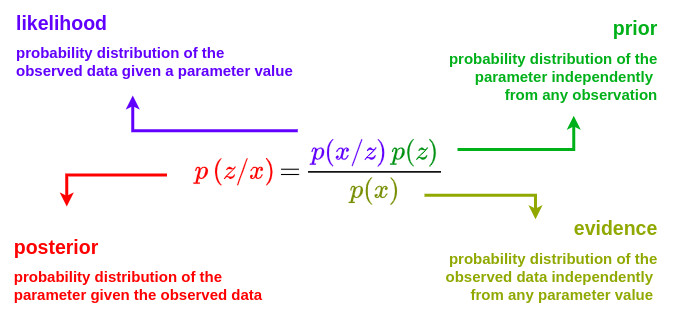
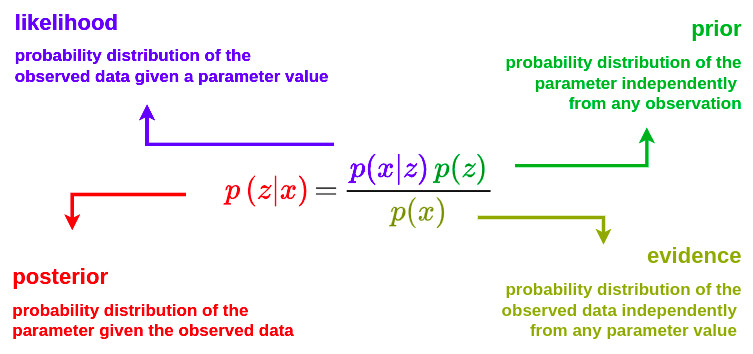
Fix probability notation in VAE tutorial (#68)
* Fix probability notation in VAE tutorial

* changes figures to integrate \vert symbol in the equations

* replace projection by mapping as suggested by nicolas and better explain the use of a gaussian distrib for the modeling of p(x|z)

diff --git a/collections/_tutorials/2022-09-12-tutorial-vae.md b/collections/_tutorials/2022-09-12-tutorial-vae.md
@@ -40,19 +40,19 @@ Let's start with the basic representation of an autoencoder
 
 Autoencoders belong to the family of dimension reduction methods. This method takes as input a vector $$\mathbf{x} \in \mathbb{R}^N$$ and outputs a closed vector $$\mathbf{\hat{x}} \in \mathbb{R}^N$$ with the restriction of passing through a space with reduced dimensionality $$Z \in \mathbb{R}^M$$. This is usually achieved through the minimization of the $$L_2$$ norm function: $$\lVert \mathbf{x} - \mathbf{\hat{x}} \rVert^2$$.
 
-$$\mathbf{e}$$ and $$\mathbf{d}$$ are two different networks that model the (non linear) projections from the input space $$X$$ to the latent space $$Z$$ in both directions. 
+$$\mathbf{e}$$ and $$\mathbf{d}$$ are two different networks that model the (non linear) mappings from the input space $$X$$ to the latent space $$Z$$ in both directions. 
 
 Let us now consider the simple case where $$\mathbf{e}$$ and $$\mathbf{d}$$ correspond to two single-layer networks without any non-linearity. The corresponding autoencoder can be represented as follows:
 
 ![](/collections/images/vae/simplified_autoencoder.jpg)
 
-where $$\mathbf{e} \in \mathbb{R}^{N \times M}$$ and $$\mathbf{d} \in \mathbb{R}^{M \times N}$$ are two linear projection matrices. In the particular case where $$\mathbf{e} = \mathbf{U}^T$$ and $$\mathbf{d} = \mathbf{U}$$, the autoencoder expressions can be written as:
+where $$\mathbf{e} \in \mathbb{R}^{N \times M}$$ and $$\mathbf{d} \in \mathbb{R}^{M \times N}$$ are two linear matrices. In the particular case where $$\mathbf{e} = \mathbf{U}^T$$ and $$\mathbf{d} = \mathbf{U}$$, the autoencoder expressions can be written as:
 
 $$\mathbf{z} = \mathbf{U}^T\mathbf{x} \quad\quad \text{and} \quad\quad \mathbf{\hat{x}} = \mathbf{U}\mathbf{z}=\mathbf{U}\mathbf{U}^T\mathbf{x}$$
 
 This corresponds to the well know PCA (Principal Component Analysis) paradigm. A more formal proof can be found [in this article](https://arxiv.org/pdf/1804.10253.pdf).
 
->Autoencoders can thus be seen as a generalization of the dimensionality reduction PCA formalism by evolving more complex projection operations defined through $$\mathbf{e}$$ and $$\mathbf{d}$$ networks.
+>Autoencoders can thus be seen as a generalization of the dimensionality reduction PCA formalism by evolving more complex operations defined through $$\mathbf{e}$$ and $$\mathbf{d}$$ networks.
 
 &nbsp;
 
@@ -104,9 +104,9 @@ Using the previous reasoning, the overall architecture of the VAE can be represe
 &nbsp;
 
 VAE thus offers two extremely interesting opportunities:
-* the mastery of the encoder allows to optimize the projection operation $$p(z/x)$$ to a latent space with reduced dimensionality for interpretation purposes. This corresponds to ***manifold learning paradigm***.
+* the mastery of the encoder allows to optimize the mapping operation $$p(z \vert x)$$ to a latent space with reduced dimensionality for interpretation purposes. This corresponds to ***manifold learning paradigm***.
 
-* the mastery of the decoder allows to optimize the projection operation $$p(x/z)$$ for the generation of data with a complex distribution. This corresponds to ***generative model framework***.
+* the mastery of the decoder allows to optimize the mapping operation $$p(x \vert z)$$ for the generation of data with a complex distribution. This corresponds to ***generative model framework***.
 
 &nbsp;
 
@@ -200,13 +200,13 @@ Let’s assume a model where data $$x$$ are generated from a probability distrib
 
 ### Key concept
 
-In the VAE formalism, we first make the assumption that $$p(z)$$ is a standard Gaussian distribution (to ensure completeness) and that $$p(x/z)$$ is a Gaussian distribution whose mean is defined by a deterministic function $$f$$ of the variable $$z$$ and whose covariance matrix has the form of a positive constant $$c$$ that multiplies the identity matrix $$I$$. We will see that this last assumption allows to keep most of the information of the data structure in the reduced representations.
+In the VAE formalism, we first make the assumption that $$p(z)$$ is a standard Gaussian distribution (to ensure completeness) and that $$p(x \vert z)$$ is a Gaussian distribution whose mean is defined by a deterministic function $$f$$ of the variable $$z$$ and whose covariance matrix has the form of a positive constant $$c$$ that multiplies the identity matrix $$I$$. We will see that this last assumption allows to keep most of the information of the data structure in the reduced representations.
 
 $$p(z) = \mathcal{N}(0,I)$$
 
-$$p(x/z) = \mathcal{N}(f(z),cI)$$
+$$p(x \vert z) = \mathcal{N}(f(z),cI)$$
 
-The key concept around VAE is that we will try to optimize the computation of the non-linear projection $$p(z/x)$$. Indeed, it can be demonstrated that the computation of $$p(z/x)$$ is often complicated and requires the use of approximation techniques such as ***variational inference***.
+The key concept around VAE is that we will try to optimize the computation of the non-linear mapping $$p(z \vert x)$$. Indeed, it can be demonstrated that the computation of $$p(z \vert x)$$ is often complicated and requires the use of approximation techniques such as ***variational inference***.
 
 &nbsp;
 
@@ -214,32 +214,32 @@ The key concept around VAE is that we will try to optimize the computation of th
 
 &nbsp;
 
-In the VAE formalism, $$p(z/x)$$ is approximated by a Gaussian distribution $$q_x(z)$$ whose mean $$\mu_x$$ and covariance $$\sigma_x$$ are defined by two functions $$g(x)$$ and $$h(x)$$. 
+In the VAE formalism, $$p(z \vert x)$$ is approximated by a Gaussian distribution $$q_x(z)$$ whose mean $$\mu_x$$ and covariance $$\sigma_x$$ are defined by two functions $$g(x)$$ and $$h(x)$$. 
 
 $$q_x(z) = \mathcal{N}\left(g(x),h(x)\right)$$
 
 
-We thus have a family of candidates for variational inference and need to find the best approximation among this family by minimising the KL divergence between the approximation $$q_x(z)$$ and the target $$p(z/x)$$. In other words, we are looking for the optimal $$g^*$$ and $$h^*$$ such that:
+We thus have a family of candidates for variational inference and need to find the best approximation among this family by minimising the KL divergence between the approximation $$q_x(z)$$ and the target $$p(z \vert x)$$. In other words, we are looking for the optimal $$g^*$$ and $$h^*$$ such that:
 
-$$\left(g^*,h^*\right) = \underset{(g,h)}{\arg\min} \,\,\, D_{KL}\left(q_x(z) \parallel p(z/x) \right)$$
+$$\left(g^*,h^*\right) = \underset{(g,h)}{\arg\min} \,\,\, D_{KL}\left(q_x(z) \parallel p(z \vert x) \right)$$
 
 Let's now reformulate the KL divergence expression.
 
-$$D_{KL}\left(q_x(z) \parallel p(z/x) \right) = - \int{q_x(z) \cdot log\left(\frac{p(z/x)}{q_x(z)}\right) \,dz}$$
+$$D_{KL}\left(q_x(z) \parallel p(z \vert x) \right) = - \int{q_x(z) \cdot log\left(\frac{p(z \vert x)}{q_x(z)}\right) \,dz}$$
 
 By using the ***conditional probability*** relation:
 
-$$p(z/x) = \frac{p(x,z)}{p(x)}$$
+$$p(z \vert x) = \frac{p(x,z)}{p(x)}$$
 
 where $$p(x,z)$$ is the joint distribution of event $$x$$ and $$z$$, the above expression can be rewritten as:
 
-$$D_{KL}\left(q_x(z) \parallel p(z/x) \right) = - \int{q_x(z) \cdot log\left(\frac{p(x,z)}{p(x) \cdot q_x(z)}\right) \,dz}$$
+$$D_{KL}\left(q_x(z) \parallel p(z \vert x) \right) = - \int{q_x(z) \cdot log\left(\frac{p(x,z)}{p(x) \cdot q_x(z)}\right) \,dz}$$
 
-$$D_{KL}\left(q_x(z) \parallel p(z/x) \right) = - \int{q_x(z) \cdot \left[ log\left(\frac{p(x,z)}{q_x(z)}\right) + log\left(\frac{1}{p(x)}\right) \right] \,dz}$$
+$$D_{KL}\left(q_x(z) \parallel p(z \vert x) \right) = - \int{q_x(z) \cdot \left[ log\left(\frac{p(x,z)}{q_x(z)}\right) + log\left(\frac{1}{p(x)}\right) \right] \,dz}$$
 
-$$D_{KL}\left(q_x(z) \parallel p(z/x) \right) = - \int{q_x(z) \cdot log\left(\frac{p(x,z)}{q_x(z)}\right) \,dz} \,+\, log\left(p(x)\right) \cdot \underbrace{\int{q_x(z)\,dz}}_{=1}$$
+$$D_{KL}\left(q_x(z) \parallel p(z \vert x) \right) = - \int{q_x(z) \cdot log\left(\frac{p(x,z)}{q_x(z)}\right) \,dz} \,+\, log\left(p(x)\right) \cdot \underbrace{\int{q_x(z)\,dz}}_{=1}$$
 
-$$D_{KL}\left(q_x(z) \parallel p(z/x) \right) \,+\, \mathcal{L} \,=\, log\left(p(x)\right)$$
+$$D_{KL}\left(q_x(z) \parallel p(z \vert x) \right) \,+\, \mathcal{L} \,=\, log\left(p(x)\right)$$
 
 where $$\mathcal{L}$$ is defined as the ***Evidence Lower BOund (ELBO)*** whose expression is given by:
 
@@ -251,27 +251,27 @@ $$\mathcal{L} = \int{q_x(z) \cdot log\left(\frac{p(x,z)}{q_x(z)}\right) \,dz}$$
 
 Let's take a closer look at the previous derived equation:
 
-$$D_{KL}\left(q_x(z) \parallel p(z/x) \right) \,+\, \mathcal{L} \,=\, log\left(p(x)\right)$$
+$$D_{KL}\left(q_x(z) \parallel p(z \vert x) \right) \,+\, \mathcal{L} \,=\, log\left(p(x)\right)$$
 
 The following observations can be made:
 * since $$0\leq p(x) \leq 1$$, $$log\left(p(x)\right) \leq 0$$
 
 * since $$x$$ is the observation, $$log\left(p(x)\right)$$ is a fixed value
 
-* by definition $$D_{KL}\left(q_x(z) \parallel p(z/x) \right) \geq 0$$
+* by definition $$D_{KL}\left(q_x(z) \parallel p(z \vert x) \right) \geq 0$$
 
 * since $$\mathcal{L} = -D_{KL}\left(q_x(z) \parallel p(x,z)\right)$$, $$\mathcal{L} \leq 0$$
 
 
 The previous expression can thus be rewritten as follows:
 
-$$\underbrace{D_{KL}\left(q_x(z) \parallel p(z/x) \right)}_{\geq 0} \,+\, \underbrace{\mathcal{L}}_{\leq 0} \,=\, \underbrace{log\left(p(x)\right)}_{\leq 0 \,\, \text{and fixed}}$$
+$$\underbrace{D_{KL}\left(q_x(z) \parallel p(z \vert x) \right)}_{\geq 0} \,+\, \underbrace{\mathcal{L}}_{\leq 0} \,=\, \underbrace{log\left(p(x)\right)}_{\leq 0 \,\, \text{and fixed}}$$
 
->At this point, it is important to remember that $$p(z/x)$$ is the unknown and that the goal is to find the best $$q_x(z)$$, i.e. the one that shall minimize $$D_{KL}\left(q_x(z) \parallel p(z/x) \right)$$.
+>At this point, it is important to remember that $$p(z \vert x)$$ is the unknown and that the goal is to find the best $$q_x(z)$$, i.e. the one that shall minimize $$D_{KL}\left(q_x(z) \parallel p(z \vert x) \right)$$.
 
 &nbsp;
 
-With the above observations, the following strategy can be implemented: by tweaking $$q_x(z)$$, we can seek to maximize the ELBO $$\mathcal{L}$$, which will imply the minimization of the KL divergence $$D_{KL}\left(q_x(z) \parallel p(z/x) \right)$$, and thus to find a distribution $$q_x(z)$$ that is close to $$p(z/x)$$. The table below provides an illustration of such a strategy. 
+With the above observations, the following strategy can be implemented: by tweaking $$q_x(z)$$, we can seek to maximize the ELBO $$\mathcal{L}$$, which will imply the minimization of the KL divergence $$D_{KL}\left(q_x(z) \parallel p(z \vert x) \right)$$, and thus to find a distribution $$q_x(z)$$ that is close to $$p(z \vert x)$$. The table below provides an illustration of such a strategy. 
 
 <style>
 table th:first-of-type {
@@ -303,35 +303,38 @@ $$\mathcal{L} = \int{q_x(z) \cdot log\left(\frac{p(x,z)}{q_x(z)}\right) \,dz}$$
 
 By using the conditional probability relation:
 
-$$p(x/z) = \frac{p(x,z)}{p(z)}$$
+$$p(x \vert z) = \frac{p(x,z)}{p(z)}$$
 
 the above expression can be rewritten as:
 
-$$\mathcal{L} = \int{q_x(z) \cdot log\left(\frac{p(x/z)\cdot p(z)}{q_x(z)}\right) \,dz}$$
+$$\mathcal{L} = \int{q_x(z) \cdot log\left(\frac{p(x \vert z)\cdot p(z)}{q_x(z)}\right) \,dz}$$
 
-$$\mathcal{L} = \int{q_x(z) \cdot \left[ log\left(p(x/z)\right) + log\left(\frac{p(z)}{q_x(z)}\right) \right] \,dz}$$
+$$\mathcal{L} = \int{q_x(z) \cdot \left[ log\left(p(x \vert z)\right) + log\left(\frac{p(z)}{q_x(z)}\right) \right] \,dz}$$
 
-$$\mathcal{L} = \int{q_x(z) \cdot log\left(p(x/z)\right) \,dz} + \int{q_x(z) \cdot log\left(\frac{p(z)}{q_x(z)}\right) \,dz}$$
+$$\mathcal{L} = \int{q_x(z) \cdot log\left(p(x \vert z)\right) \,dz} + \int{q_x(z) \cdot log\left(\frac{p(z)}{q_x(z)}\right) \,dz}$$
 
-$$\mathcal{L} =  \mathbb{E}_{z\sim q_x} \left[log\left(p(x/z)\right)\right] - D_{KL}\left(q_x(z)\parallel p(z)\right)$$
-
-&nbsp;
-
-Recalling that $$p(x/z)$$ is approximated by a Gaussian distribution $$\mathcal{N}\left(f(z),cI\right)$$, we finally have
-
-$$\mathcal{L} \propto \mathbb{E}_{z\sim q_x} \left[\|x-f(z)\|^2\right] - D_{KL}\left(q_x(z)\parallel p(z)\right)$$
-
-&nbsp;
+$$\mathcal{L} =  \mathbb{E}_{z\sim q_x} \left[log\left(p(x \vert z)\right)\right] - D_{KL}\left(q_x(z)\parallel p(z)\right)$$
 
 where $$\mathbb{E}_{z\sim q_x}$$ is the mathematical expectation with respect to $$q_x(z)$$. 
 
+&nbsp;
+
+At this stage of analysis, it is important to remember that $$p(x \vert z)$$ is modeled by a neural network $$f\left( \cdot \right)$$ so that $$\hat{x}=f(z)$$. Since this function is deterministic, it will allow to model $$p\left(x \vert \hat{x}\right)$$. By approximating $$p\left(x \vert \hat{x}\right)$$ by a Gaussian distribution with a fixed covariance matrix $$cI$$, we have
+
+$$\mathcal{L} \propto \mathbb{E}_{z\sim q_x} \left[-\alpha\|x-f(z)\|^2\right] - D_{KL}\left(q_x(z)\parallel p(z)\right)$$
+
+where $$\alpha$$ comes from the constant covariance information. 
+
+&nbsp;
+
+
 We are finally looking for:
 
-$$\left(f^*,g^*,h^*\right) = \underset{(f,g,h)}{\arg\max} \,\,\, \left( \mathbb{E}_{z\sim q_x} \left[-\|x-f(z)\|^2\right] - D_{KL}\left(q_x(z)\parallel p(z)\right) \right)$$
+$$\left(f^*,g^*,h^*\right) = \underset{(f,g,h)}{\arg\max} \,\,\, \left( \mathbb{E}_{z\sim q_x} \left[-\alpha\|x-f(z)\|^2\right] - D_{KL}\left(q_x(z)\parallel p(z)\right) \right)$$
 
 or 
 
-$$\left(f^*,g^*,h^*\right) = \underset{(f,g,h)}{\arg\min} \,\,\, \left( \mathbb{E}_{z\sim q_x} \left[\|x-f(z)\|^2\right] + D_{KL}\left(q_x(z)\parallel p(z)\right) \right)$$
+$$\left(f^*,g^*,h^*\right) = \underset{(f,g,h)}{\arg\min} \,\,\, \left( \mathbb{E}_{z\sim q_x} \left[\alpha\|x-f(z)\|^2\right] + D_{KL}\left(q_x(z)\parallel p(z)\right) \right)$$
 
 &nbsp;
 
@@ -339,15 +342,15 @@ $$\left(f^*,g^*,h^*\right) = \underset{(f,g,h)}{\arg\min} \,\,\, \left( \mathbb{
 
 Here is a summary of what have been done so far.
 
-1. We want to estimate a non-linear projection $$p(z/x)$$ to go from an input space to a space of reduced dimension, and this through a probabilistic framework.
+1. We want to estimate a non-linear mapping $$p(z \vert x)$$ to go from an input space to a space of reduced dimension, and this through a probabilistic framework.
 
-2. To do this, we introduced a third party parametric distribution $$q_x(z)$$ to estimate the target distribution $$p(z/x)$$.
+2. To do this, we introduced a third party parametric distribution $$q_x(z)$$ to estimate the target distribution $$p(z \vert x)$$.
 
 3. We used the KL divergence metric which measures the proximity between the two distributions, the objective being to minimize this metric.
 
 4. The minimization of the KL divergence leads to the minimization of the following equation:
 
-$$\left(f^*,g^*,h^*\right) = \underset{(f,g,h)}{\arg\min} \,\,\, \left( \mathbb{E}_{z\sim q_x} \left[\|x-f(z)\|^2\right] + D_{KL}\left(q_x(z)\parallel p(z)\right) \right)$$
+$$\left(f^*,g^*,h^*\right) = \underset{(f,g,h)}{\arg\min} \,\,\, \left( \mathbb{E}_{z\sim q_x} \left[\alpha\|x-f(z)\|^2\right] + D_{KL}\left(q_x(z)\parallel p(z)\right) \right)$$
 
 
 &nbsp;
@@ -362,21 +365,21 @@ The minimization of the above equation can be handled by the following graph.
 
 **Let's work on the decoder** 
 
-The decoder will be in charge of the optimization of $$p(x/z)$$, i.e. the first part of the above equation. This is done through a neural network that will optimize the $$f$$ function through the minimization of the following loss function:
+The decoder will be in charge of the optimization of $$p(x \vert z)$$, i.e. the first part of the above equation. This is done through a neural network that will optimize the $$f$$ function through the minimization of the following loss function:
 
-$$\mathcal{L}_{decoder} = \|x-\hat{x}\|^2 \,=\, \|x-\underbrace{f(z)}_{\text{decoder}}\|^2$$
+$$\mathcal{L}_{decoder} = \alpha\|x-\hat{x}\|^2 \,=\, \alpha\|x-\underbrace{f(z)}_{\text{decoder}}\|^2$$
 
 where $$f(z)$$ is the ouput of the decoder. This correponds to the classical $$L_2$$ loss function!
 
 &nbsp;
 
->If we make the assumption that $$\,p(x/z)$$ follows a Bernouilli distribution, then we can demonstrate that the maximization of $$\,\mathbb{E}_{z\sim q_x} \left[log\left(p(x/z)\right)\right]$$ leads to the minimization of the cross entropy function!
+>If we make the assumption that $$\,p(x \vert z)$$ follows a Bernouilli distribution, then we can demonstrate that the maximization of $$\,\mathbb{E}_{z\sim q_x} \left[log\left(p(x \vert z)\right)\right]$$ leads to the minimization of the cross entropy function!
 
 &nbsp;
 
 **Let's work on the encoder** 
 
-The encoder will be in charge of the optimization of $$p(z/x)$$, i.e. the second part of the above equation. This is done through a neural network that will optimize $$g$$ and $$h$$ functions through the minimization of the following loss function:
+The encoder will be in charge of the optimization of $$p(z \vert x)$$, i.e. the second part of the above equation. This is done through a neural network that will optimize $$g$$ and $$h$$ functions through the minimization of the following loss function:
 
 $$\mathcal{L}_{encoder} = D_{KL}(\underbrace{q_x(z)}_{encoder} \parallel \mathcal{N}(0,I))$$
 
@@ -394,7 +397,7 @@ The graph below shows the final network structure used in the VAE formalism.
 
 The following equation is used as a loss term:
 
-$$\text{loss}=\|x-\hat{x}\|^2 \,+\, D_{KL}\left(\mathcal{N}\left(\mu_x,\sigma_x\right),\mathcal{N}\left(0,I\right)\right) $$
+$$\text{loss}=\alpha\|x-\hat{x}\|^2 \,+\, D_{KL}\left(\mathcal{N}\left(\mu_x,\sigma_x\right),\mathcal{N}\left(0,I\right)\right) $$
 
 &nbsp;
 
@@ -436,8 +439,8 @@ The graph below shows the final network used to implement VAE with the possibili
 
 We recall that the following equation is used as the loss term:
 
-$$\text{loss} = \|x-\hat{x}\|^2 \,+\, D_{KL}\left(\mathcal{N}\left(\mu_x,\sigma_x\right),\mathcal{N}\left(0,I\right)\right) $$
+$$\text{loss} = \alpha\|x-\hat{x}\|^2 \,+\, D_{KL}\left(\mathcal{N}\left(\mu_x,\sigma_x\right),\mathcal{N}\left(0,I\right)\right) $$
 
-$$\text{loss} = \|x-f(z)\|^2 \,+\, D_{KL}\left(\mathcal{N}\left(g(x),h(x)\right),\mathcal{N}\left(0,I\right)\right) $$
+$$\text{loss} = \alpha\|x-f(z)\|^2 \,+\, D_{KL}\left(\mathcal{N}\left(g(x),h(x)\right),\mathcal{N}\left(0,I\right)\right) $$
 
 
